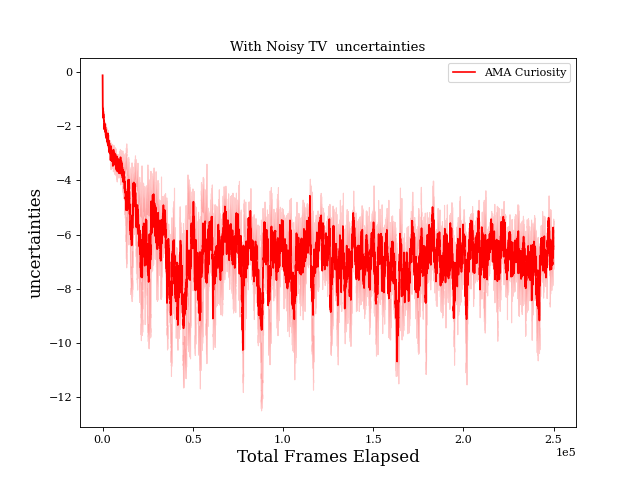
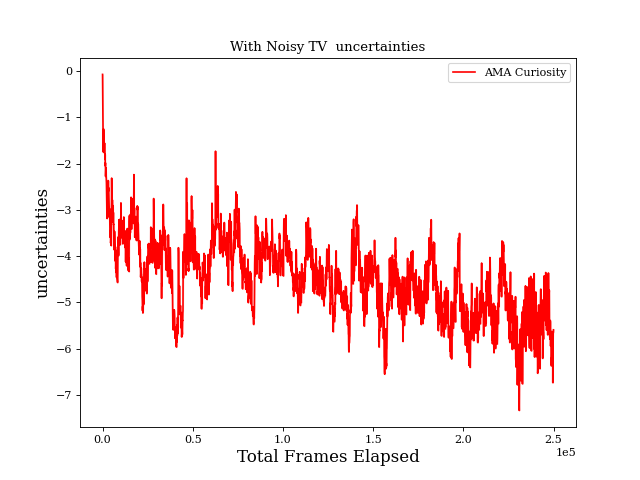
Good AMA results

diff --git a/rl-starter/src/scripts/icm.py b/rl-starter/src/scripts/icm.py
@@ -67,8 +67,9 @@ class ICM:
         if self.uncertainty == "True":
             mse = F.mse_loss(forward_prediction, new_obs, reduction="none")
             loss = torch.sum(torch.exp(-uncertainty) * mse + self.uncertainty_budget * uncertainty)
-            reward = torch.mean(mse - torch.exp(uncertainty), dim=(1, 2, 3))
+            reward = mse - torch.exp(uncertainty)
             reward = torch.clamp(reward, 0, 1e8)
+            reward = torch.mean(reward, dim=(1,2,3))
         else:
             reward = F.mse_loss(forward_prediction, new_obs, reduction="none")
             reward = torch.mean(reward, dim=(1, 2, 3))

diff --git a/rl-starter/src/scripts/plot.py b/rl-starter/src/scripts/plot.py
@@ -145,9 +145,9 @@ def main(args):
         #    random_Noisy_True,
         ]
         path_strings_no_noisy = [
-        #    Curious_False_Noisy_False_Uncertain_False,
+            Curious_False_Noisy_False_Uncertain_False,
             Curious_True_Noisy_False_Uncertain_True,
-        #    Curious_True_Noisy_False_Uncertain_False,
+            Curious_True_Noisy_False_Uncertain_False,
         #    random_Noisy_False,
         ]
 
